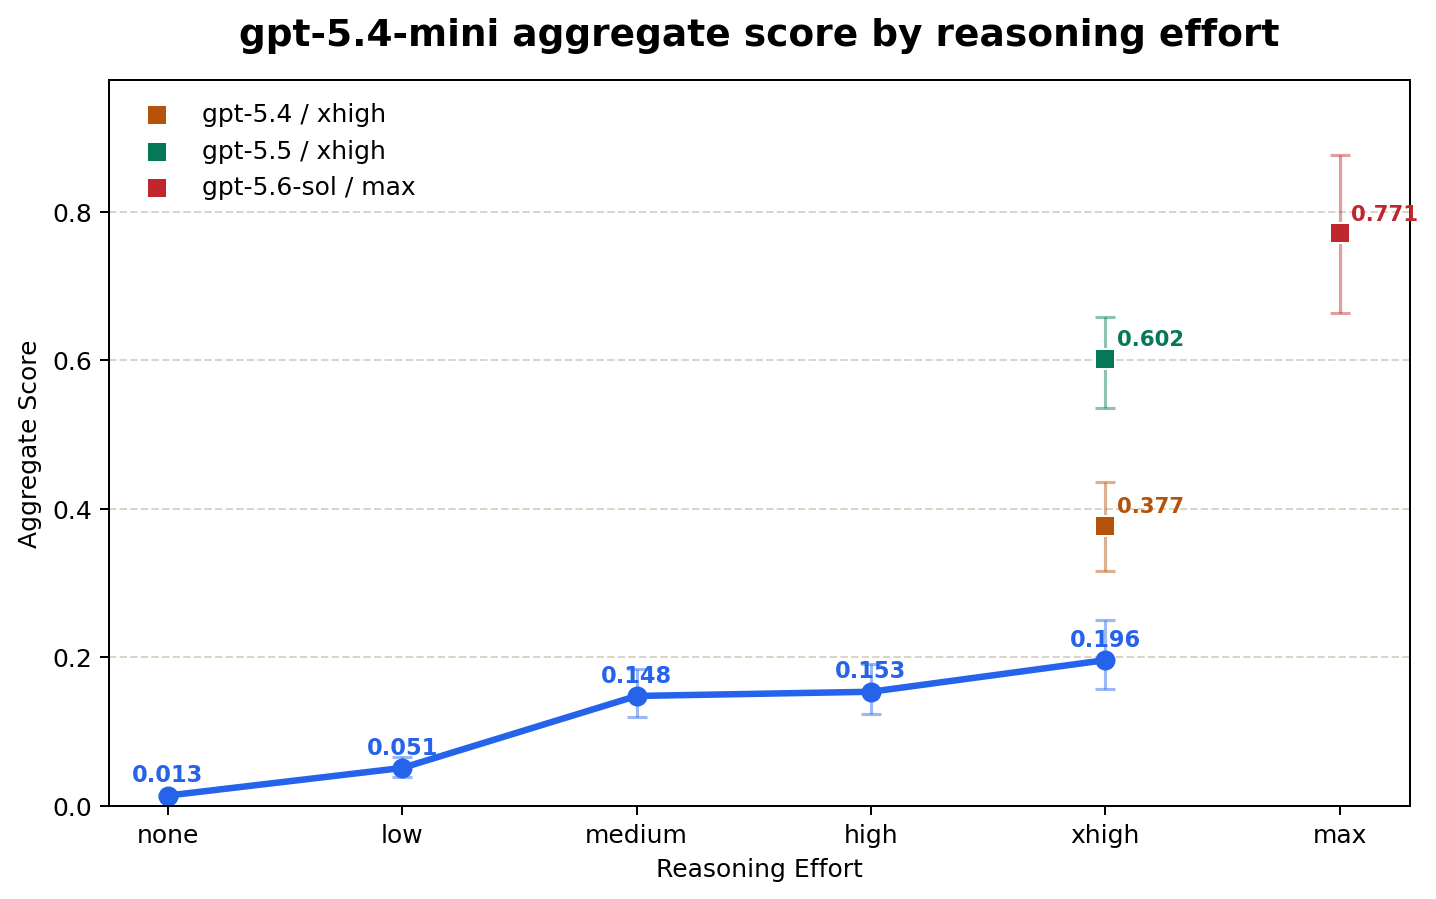
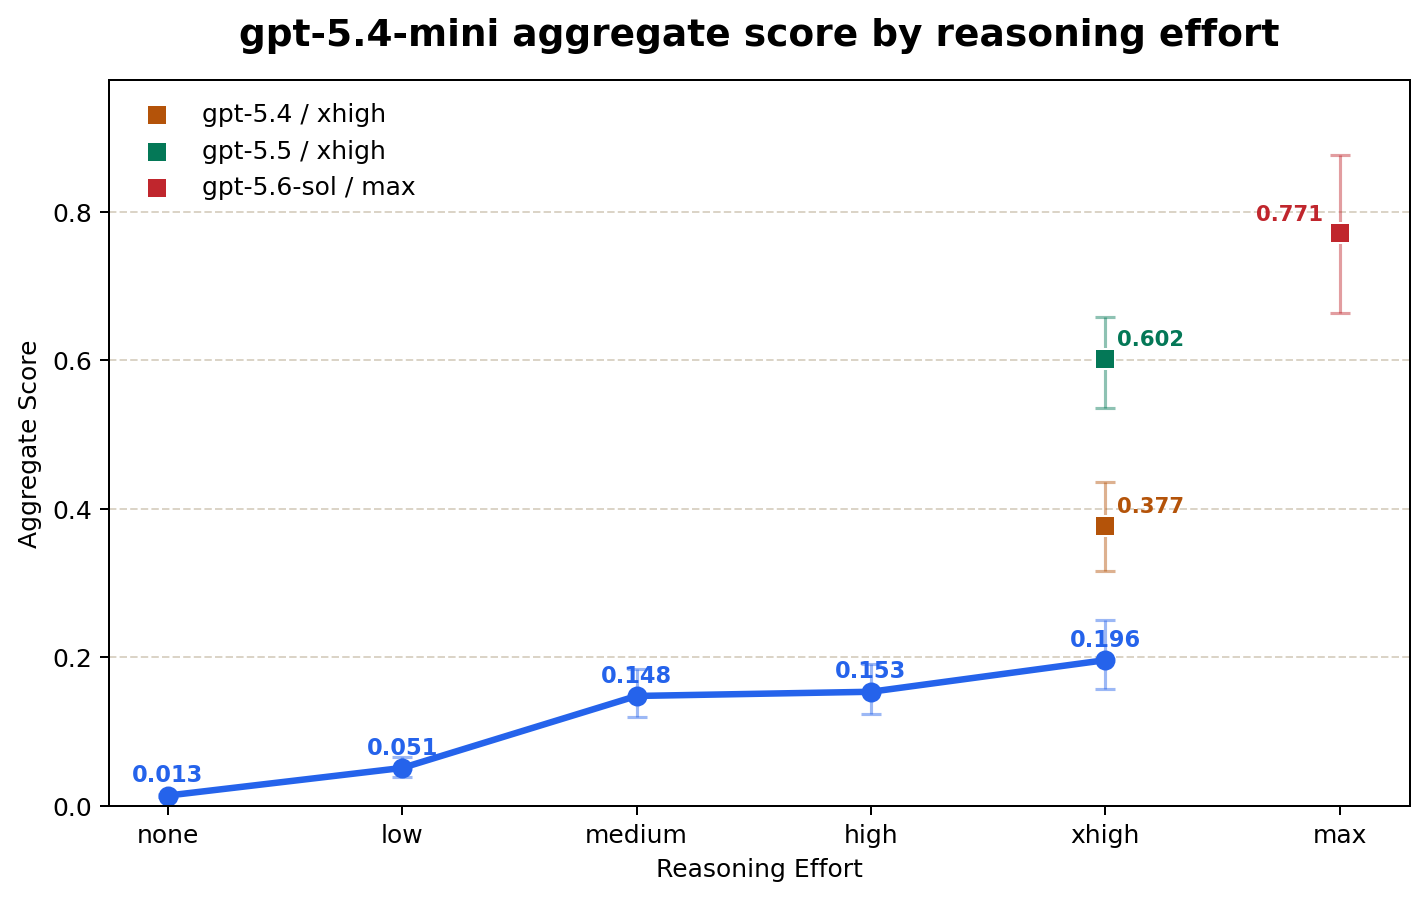
Keep chart labels inside plot bounds

diff --git a/plot_benchmark_scores.py b/plot_benchmark_scores.py
@@ -459,11 +459,12 @@ def make_plot_aggregate_by_reasoning(
                 zorder=3,
                 label=spec.label,
             )
+            is_rightmost_effort = x == len(axis_efforts) - 1
             ax.text(
-                x + 0.05,
+                x - 0.07 if is_rightmost_effort else x + 0.05,
                 result.aggregate_score + 0.012,
                 f"{result.aggregate_score:.3f}".rstrip("0").rstrip("."),
-                ha="left",
+                ha="right" if is_rightmost_effort else "left",
                 va="bottom",
                 fontsize=8.5,
                 color=color,
